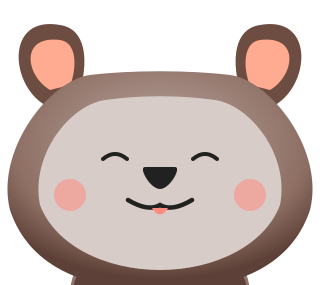
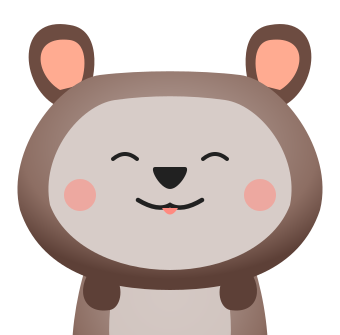
Quico asoma con sus manitas agarrando el panel
- El recorte de la cabeza ahora incluye los hombros y las dos manitas
  oscuras de Quico, que quedan agarrando el borde del panel «Hoy»
- Más solape con el panel para que las patitas se apoyen en el borde
- Service worker a v8

Claude-Session: https://claude.ai/code/session_016dVhkXDaZK4tZ9r3UZVQSg

diff --git a/index.html b/index.html
@@ -247,7 +247,7 @@ body{
 .cfg-note{font-size:.72rem;color:var(--text-soft);text-align:center;margin-top:8px;opacity:.8;}
 
 /* ── Quokka asomado agarrando el panel ── */
-.quokka-peek{display:flex;justify-content:center;margin-bottom:-18px;position:relative;z-index:0;}
+.quokka-peek{display:flex;justify-content:center;margin-bottom:-30px;position:relative;z-index:2;}
 .quokka-peek img{display:block;filter:drop-shadow(0 4px 10px rgba(93,64,55,.18));}
 .tp-wrap{position:relative;z-index:1;}
 

diff --git a/service-worker.js b/service-worker.js
@@ -1,7 +1,7 @@
 // Service Worker - Cris App
 // Cachea todos los módulos para que la app funcione sin conexión.
 
-const CACHE_NAME = 'cris-app-v7';
+const CACHE_NAME = 'cris-app-v8';
 
 const ASSETS = [
   './',